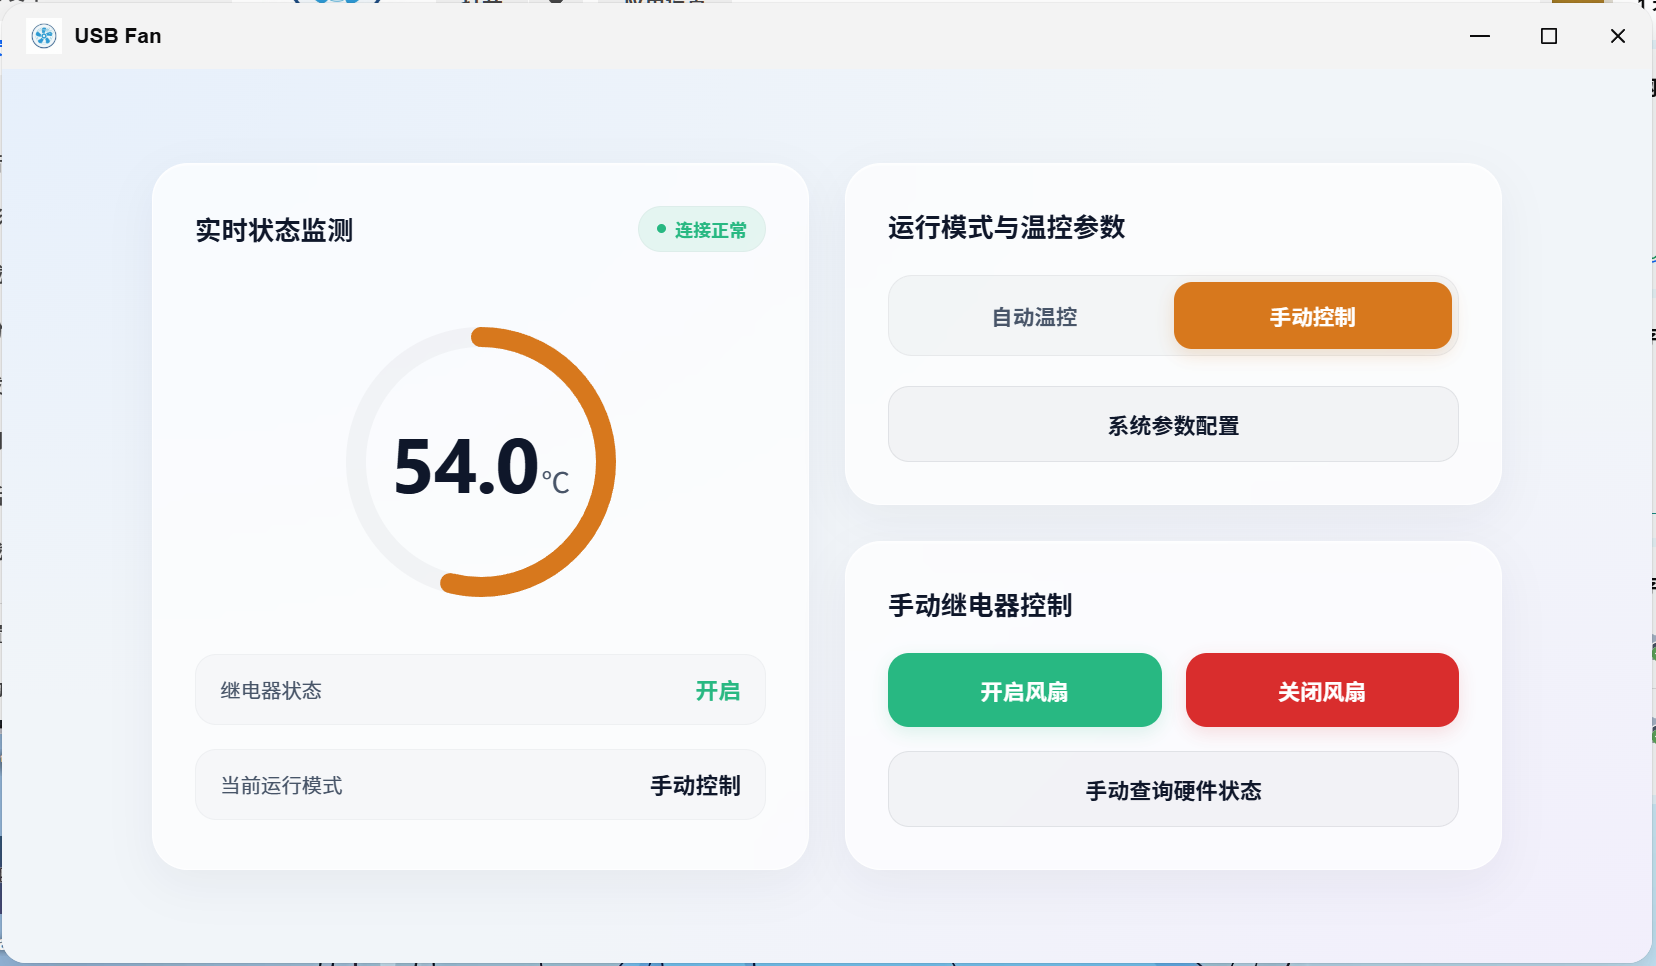
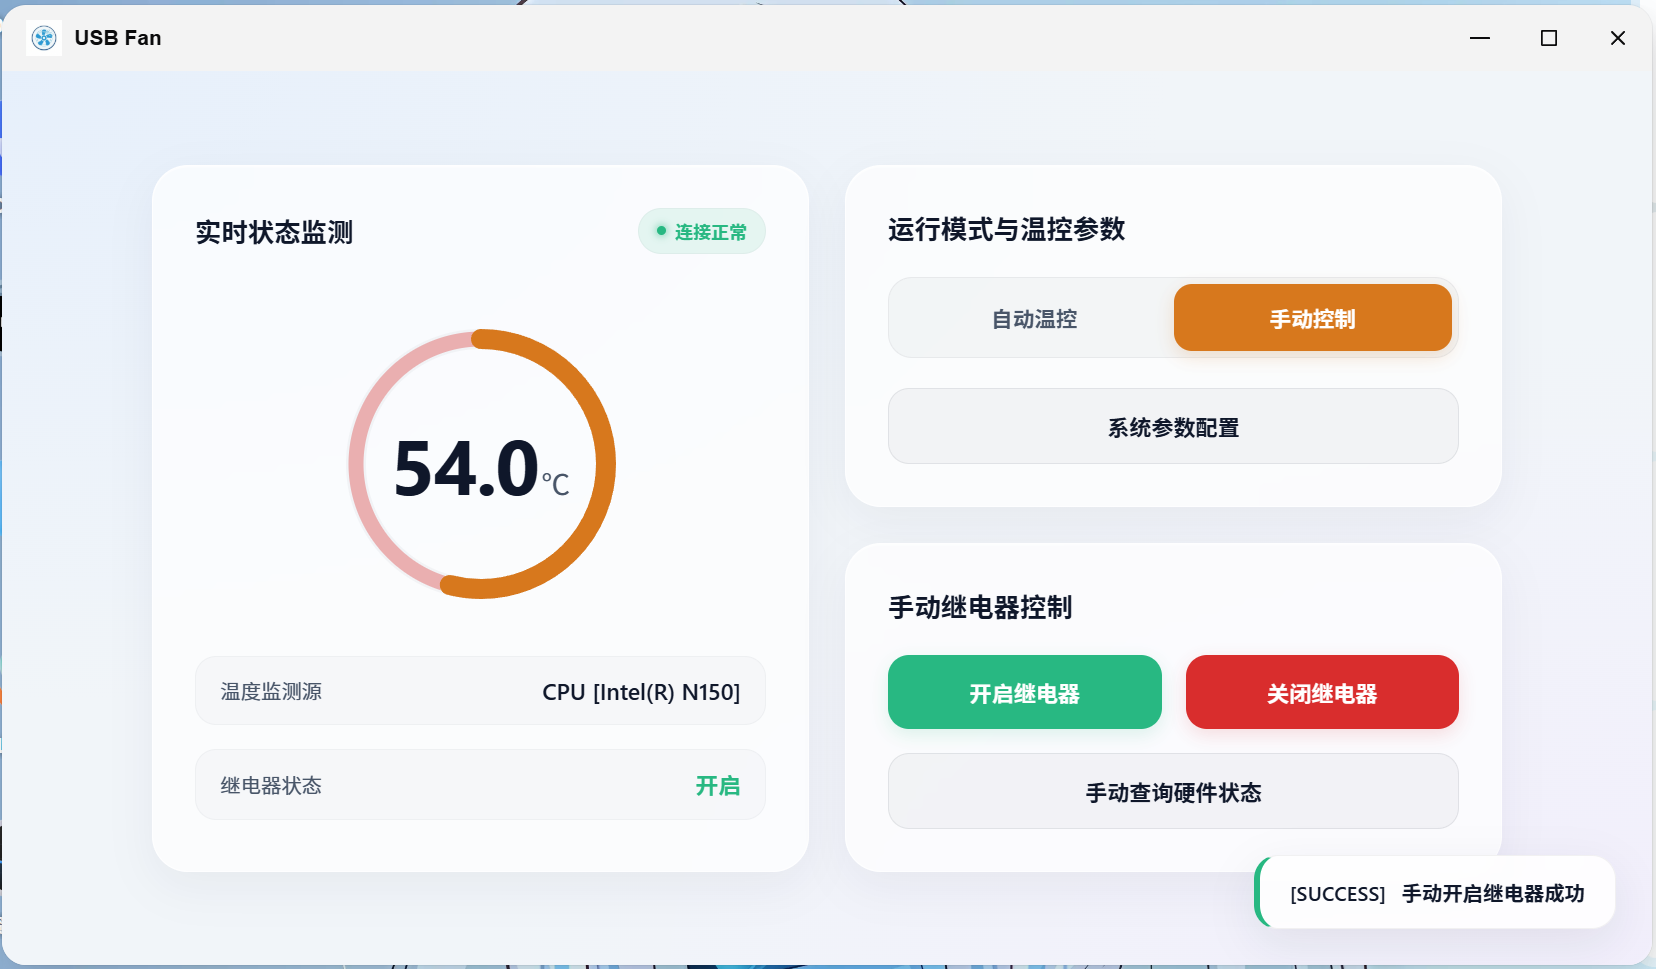
feat(yuexps-usb-fan): 升级至 v1.0.2 并优化配置说明
更新版本号至 1.0.2，描述增加使用方法提示。
优化 README 配置说明，默认改用推荐固定路径及 hwmon 格式。
补充串口与温度传感器的 Web 扫描配置及详细获取指引。

diff --git a/yuexps-usb-fan/README.md b/yuexps-usb-fan/README.md
@@ -3,17 +3,17 @@
 飞牛 NAS (FNOS) 的 USB 继电器 温控程序。
 
 ### 自定义配置说明
-应用运行后，会在持久化目录（FNOS 环境为 `/var/apps/yuexps-usb-fan/var/config.json`，本地运行为同级 `config.json`）生成配置文件。你可以直接编辑该 JSON 文件来自定义参数（修改保存后，重启应用服务即可生效）：
+应用运行后，会在持久化目录`/var/apps/yuexps-usb-fan/var/config.json`生成配置文件。可通过 Web 界面直接修改，也可以编辑 JSON 文件后重启生效：
 
 | 参数名 | 默认值 | 作用说明 |
 | :--- | :--- | :--- |
-| `serial_port` | `/dev/ttyUSB0` | 自定义 USB 串口硬件设备地址 |
+| `serial_port` | `/dev/serial/by-id/usb-1a86_USB_Serial-if00-port0` | 自定义 USB 串口硬件设备地址 |
 | `baud_rate` | `9600` | 串口通信波特率 |
 | `ceiling` | `55.0` | 自动温控开启上限温度，单位摄氏度 |
 | `floor` | `50.0` | 自动温控关闭下限温度，单位摄氏度 |
 | `mode` | `auto` | 默认启动模式，auto 为自动温控，manual 为手动控制 |
 | `poll_interval` | `3` | 后端温度采样与温控循环周期，单位秒 |
-| `temp_path` | `/sys/class/thermal/thermal_zone1/temp` | 温度文件路径 |
+| `temp_path` | `hwmon:coretemp:temp1_input` | 温度传感器路径，支持 hwmon 格式（如 `hwmon:coretemp:temp1_input`）和 thermal_zone 绝对路径（如 `/sys/class/thermal/thermal_zone0/temp`） |
 | `has_feedback` | `true` | 是否支持反馈，true 为有反馈，false 为无反馈 |
 | `op_close_nofeed` | `A00100A1` | 无反馈关闭指令十六进制数据帧 |
 | `op_open_nofeed` | `A00101A2` | 无反馈开启指令十六进制数据帧 |
@@ -26,14 +26,24 @@
 
 ### 硬件与系统参数获取说明
 
+（串口设备、温度传感器）均可直接在 Web 界面配置弹窗中自动扫描选择！
+
 1. **串口设备路径**：
-   - 插入 USB 继电器后，在终端执行 `ls /dev/ttyUSB*` 或 `ls /dev/ttyACM*`。
-   - 常见识别结果为 `/dev/ttyUSB0`。
+   - **动态路径（不推荐长期使用）**：插入 USB 继电器后，在终端执行 `ls /dev/ttyUSB*` 或 `ls /dev/ttyACM*`。常见识别结果为 `/dev/ttyUSB0`。该路径容易因重启或插拔发生漂移。
+   - **固定路径（推荐）**：在终端执行 `ls /dev/serial/by-id/`，找到如 `/dev/serial/by-id/usb-1a86_USB_Serial-if00-port0` 的唯一 ID 路径。使用该路径可以保证重启或插拔后设备地址不发生改变。
 
 2. **温度文件路径**：
-   - 在终端执行 `cat /sys/class/thermal/thermal_zone*/type` 查看各温度传感器类型。
-   - 寻找需要监控的传感器名称，如 CPU 相关的 `x86_pkg_temp` 或其他主板传感器。
-   - 确定对应编号后，其温度路径即为 `/sys/class/thermal/thermal_zoneX/temp`，其中 X 代表对应传感器的编号。
+
+   - **hwmon 格式（推荐）**
+     - 在终端执行 `ls /sys/class/hwmon/` 查看 hwmon 设备列表。
+     - 执行 `cat /sys/class/hwmon/hwmon*/name` 查看各设备驱动名称，如 `coretemp`（Intel CPU）、`k10temp`（AMD CPU）、`drivetemp`（硬盘）、`nvme`（NVMe 硬盘）、`amdgpu`（AMD 显卡）等。
+     - 对于有多个子传感器的设备（如 `drivetemp`、`nvme`），执行 `cat /sys/class/hwmon/hwmonX/temp*_label` 可查看各子传感器的标签。
+     - 确定后，在配置文件的 `temp_path` 中填入 `hwmon:驱动名:tempX_input` 格式，例如 `hwmon:coretemp:temp1_input`。
+
+   - **thermal_zone 格式**
+     - 在终端执行 `cat /sys/class/thermal/thermal_zone*/type` 查看各温度传感器类型。
+     - 寻找需要监控的传感器名称，如 CPU 相关的 `x86_pkg_temp` 或其他主板传感器。
+     - 确定对应编号后，将完整路径 `/sys/class/thermal/thermal_zoneX/temp`（X 为传感器编号）填入配置文件的 `temp_path` 中，例如 `/sys/class/thermal/thermal_zone0/temp`。
 
 3. **继电器指令帧与回执帧**：
    - 查阅商家提供的产品通信协议文档，获取开启、关闭、状态查询以及状态回执的十六进制报文。